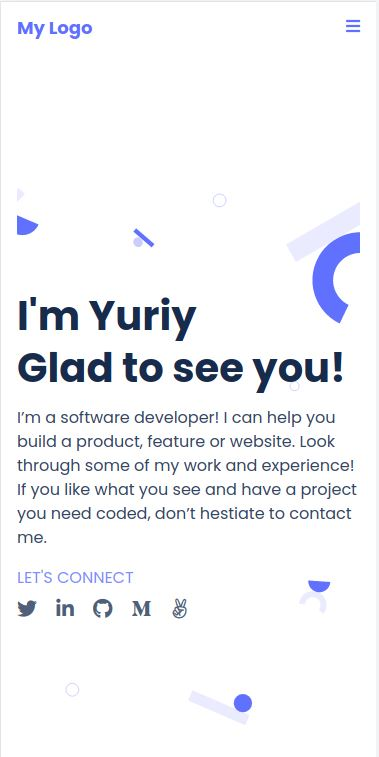
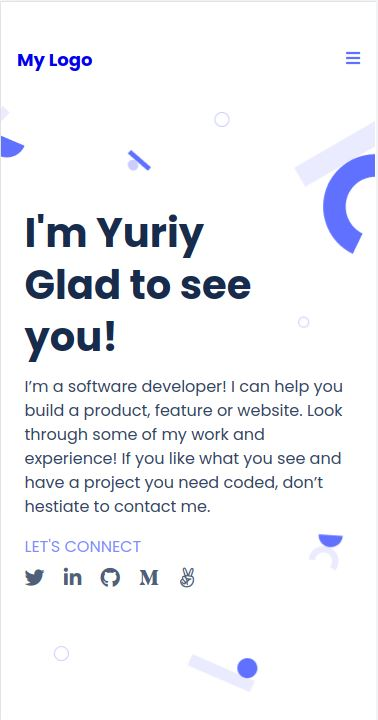
Correct the faults from second review in HTML and CSS files

diff --git a/index.html b/index.html
@@ -14,13 +14,13 @@
 <body>
   <div class="container">
     <header>
-      <span class="logo">My Logo</span>
+      <span class="logo"><a class="logo-text" title="logo" href="#">My Logo</a></span>
       <nav>
         <i class="fas fa-bars hidden"></i>
         <ul class="menu">
-          <li class="menu-item">Portfolio</li>
-          <li class="menu-item">About</li>
-          <li class="menu-item">Contact</li>
+          <li class="menu-item"><a href="#" title="Portfolio">Portfolio</a></li>
+          <li class="menu-item"><a href="#" title="Portfolio">About</a></li>
+          <li class="menu-item"><a href="#" title="Portfolio">Contact</a></li>
         </ul>
       </nav>
     </header>
@@ -34,11 +34,11 @@
         <span class="connect-text">LET'S CONNECT</span>
         <div>
           <ul class="icon-list">
-            <li><i class="fab fa-twitter"></i></li>
-            <li><i class="fab fa-linkedin-in"></i></li>
-            <li><i class="fab fa-github"></i></li>
-            <li><i class="fab fa-medium-m"></i></li>
-            <li><i class="fab fa-angellist"></i></li>
+            <li><a title="Twitter" href="https://twitter.com/Chamkoriyski"><i class="fab fa-twitter"></i></li></a>
+            <li><a title="LinkedIn" href="https://www.linkedin.com/in/axebit/"><i class="fab fa-linkedin-in"></i></li></a>
+            <li><a title="GitHub" href="https://github.com/Hombre2014"><i class="fab fa-github"></i></li></a>
+            <li><a title="Medium" href="#"><i class="fab fa-medium-m"></i></li></a>
+            <li><a title="Angellist" href="#"><i class="fab fa-angellist"></i></li></a>
           </ul>
         </div>
       </div>

diff --git a/style.css b/style.css
@@ -14,6 +14,10 @@ body {
   height: 100vh;
 }
 
+a {
+  text-decoration: none;
+}
+
 .container {
   padding: 1rem;
   height: 100%;
@@ -26,11 +30,14 @@ header {
 }
 
 .logo {
-  color: #6070ff;
   font-style: normal;
   font-weight: bold;
   font-size: 18px;
   line-height: 20px;
+}
+
+.logo-text {
+  color: #6070ff;
 }
 
 .hidden {
@@ -108,15 +115,12 @@ li {
   header {
     padding: 0;
   }
-
   .menu-item {
     margin-right: 1rem;
   }
-
   .main {
     width: 100%;
   }
-
   .main-text {
     width: 100%;
     margin-top: 0.8rem;
@@ -125,36 +129,32 @@ li {
 }
 
 @media (max-width: 375px) {
-  header {
+  .container {
     padding: 0;
   }
-
+  header {
+    margin: 3rem 1.5rem 0 1.5rem;
+  }
   .hidden {
     display: block;
   }
-
   .menu {
     flex-direction: row-reverse;
   }
-
   .menu-item {
     display: none;
   }
-
   .headline {
     background-image: url(img/header-shapes\ mobile.png);
-    background-position: center center;
-    background-repeat: no-repeat;
-    background-size: contain;
-    background-color: #fff;
-    height: calc(100% - 1rem);
-    width: 100%;
+    position: absolute;
+    width: 462px;
+    height: 587.15px;
+    left: -44px;
+    top: 104px;
   }
-
   .main {
-    width: 100%;
+    width: 327px;
   }
-
   .title {
     font-size: 40px;
     line-height: 52px;
@@ -162,7 +162,6 @@ li {
     font-weight: 700;
     font-style: normal;
   }
-
   .main-text {
     width: 100%;
     margin-top: 12px;
